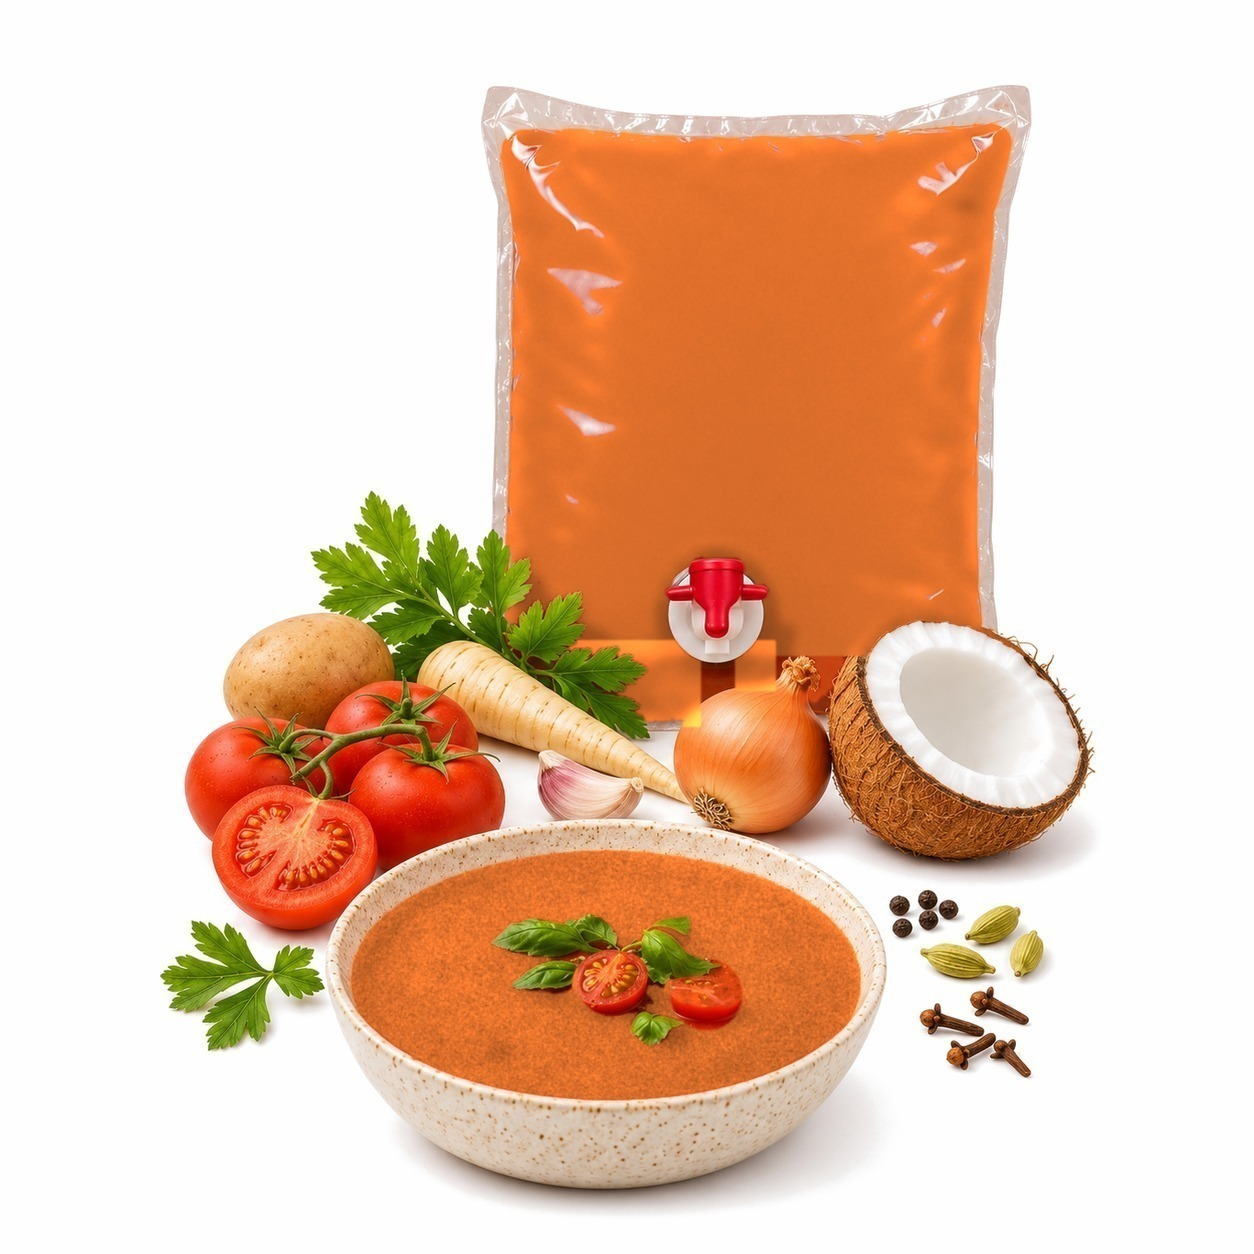
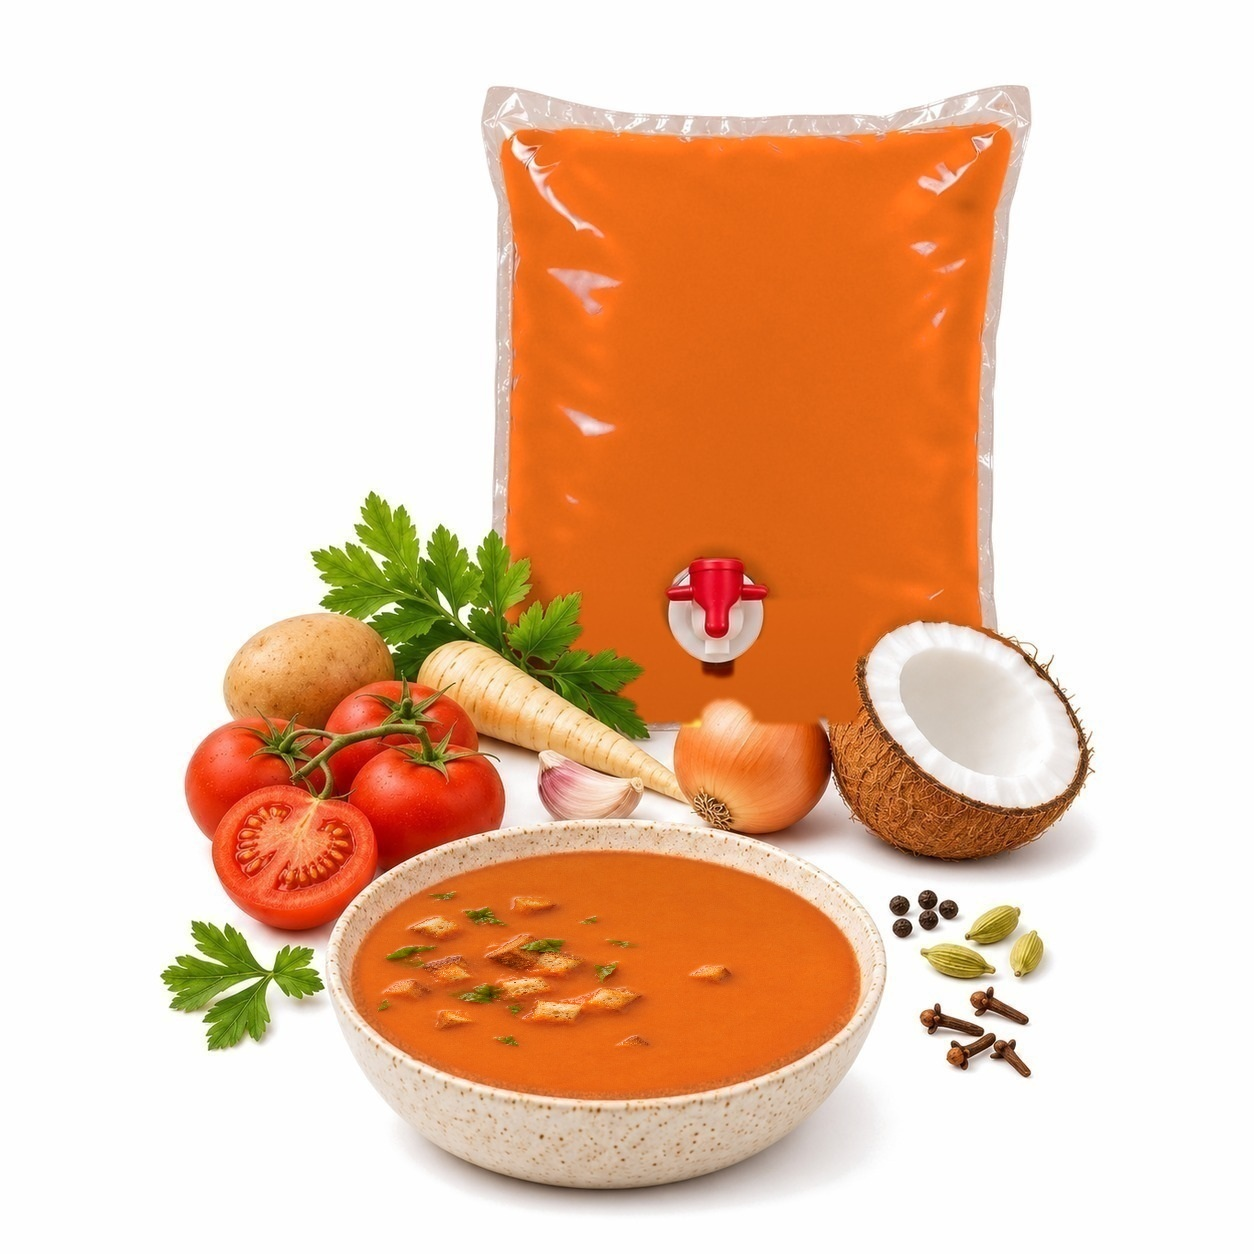
Rajčatová polévka: hlavní fotka shora s krutony, fotka s beginou se stejnou hladinou
Claude-Session: https://claude.ai/code/session_016QL8fyP6fDGx2RMwKgd8AU

Changed region(s): [[0.2799, 0.6842, 0.6842, 0.8708], [0.4354, 0.4665, 0.6842, 0.5909]]

diff --git a/dashboard/lib/eshop/productImages.ts b/dashboard/lib/eshop/productImages.ts
@@ -46,6 +46,8 @@ const BACKDROP: Record<string, string> = {
   "/eshop/polevky/dynova-polevka-begina-v6.jpg": "#fefefe",
   "/eshop/polevky/rajcatova-polevka-miska-v5.jpg": "#fefefe",
   "/eshop/polevky/rajcatova-polevka-begina-v5.jpg": "#fefefe",
+  "/eshop/polevky/rajcatova-polevka-miska-v6.jpg": "#fefefe",
+  "/eshop/polevky/rajcatova-polevka-begina-v6.jpg": "#fefefe",
   "/eshop/polevky/spenatova-polevka-miska-v5.jpg": "#fefefe",
   "/eshop/polevky/spenatova-polevka-begina-v5.jpg": "#fefefe",
   "/eshop/polevky/spenatova-polevka-miska-v6.jpg": "#fefefe",
